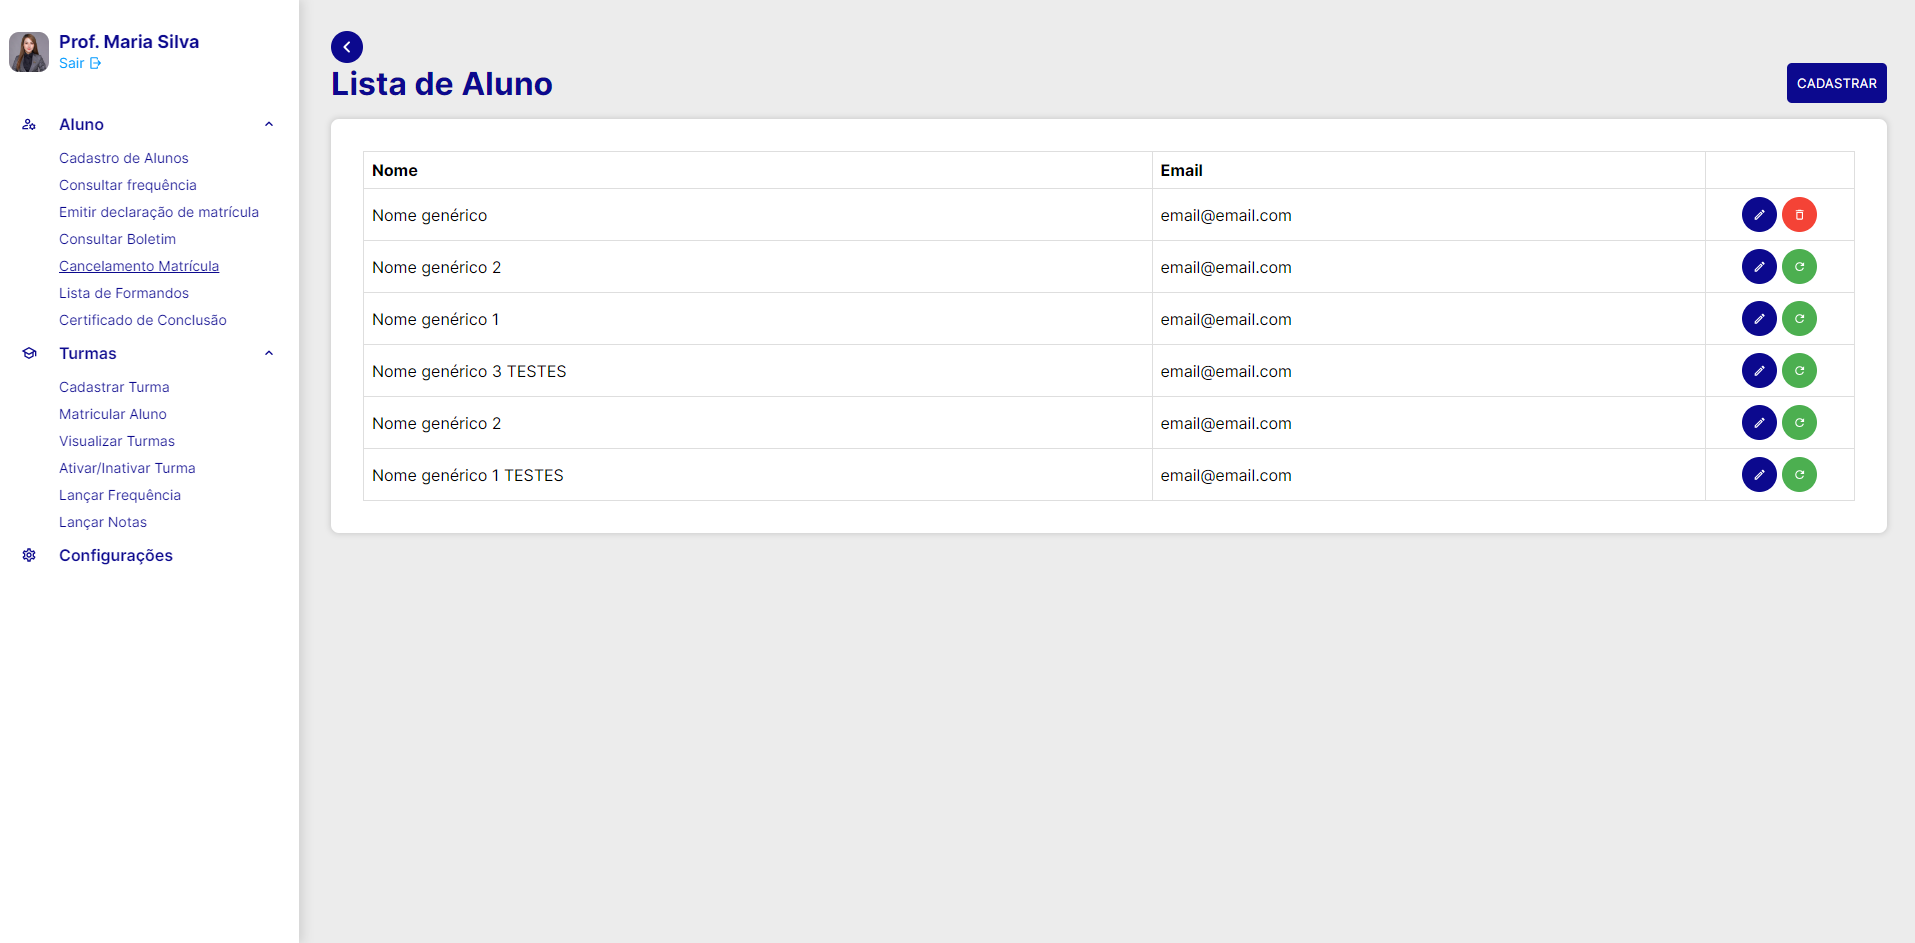
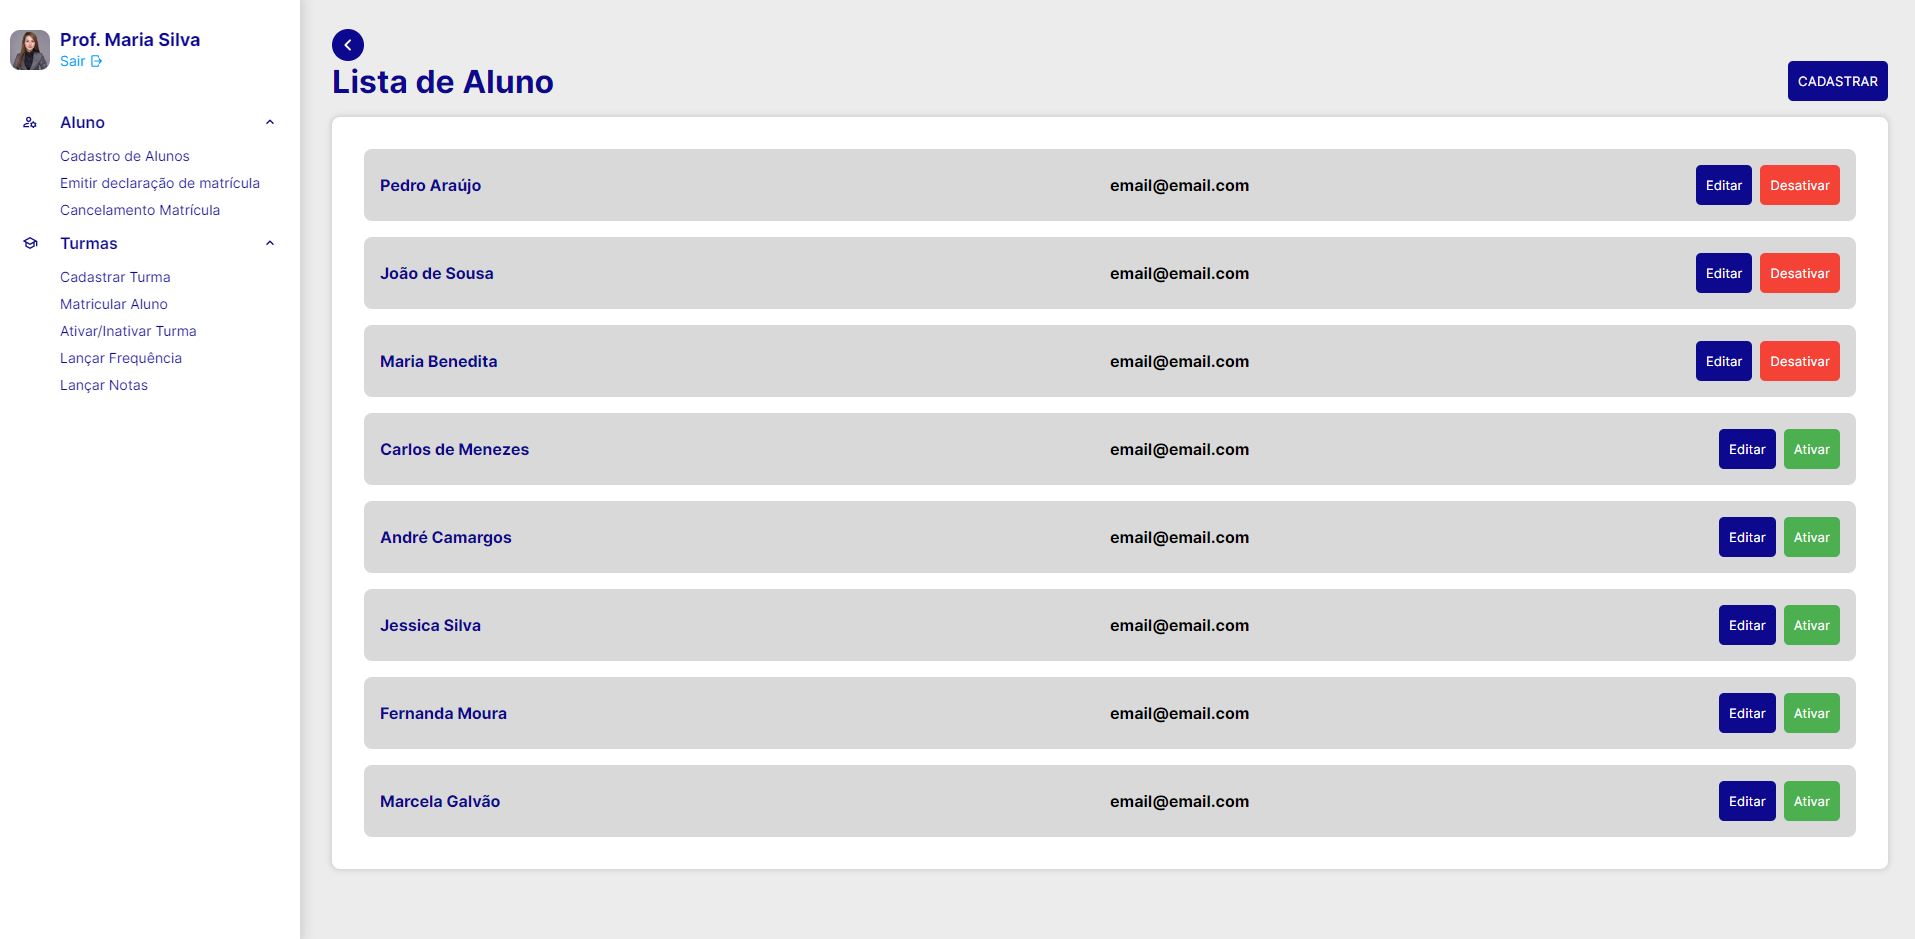
feat: programação de funcionalidades cancelar matrícula

diff --git a/codigo-fonte/src/hooks/useDOMManager.js b/codigo-fonte/src/hooks/useDOMManager.js
@@ -174,7 +174,7 @@ export const useDOMManager = () => {
 
                 actionsNode.classList.add('actions');
                 actionsNode.classList.add('flex');
-                actionsNode.classList.add('justify-center');
+                actionsNode.classList.add('justify-end');
                 actionsNode.classList.add('gap-2');
 
                 li.appendChild(nameNode);
@@ -216,7 +216,7 @@ export const useDOMManager = () => {
 
                 actionsNode.classList.add('actions');
                 actionsNode.classList.add('flex');
-                actionsNode.classList.add('justify-center');
+                actionsNode.classList.add('justify-end');
                 actionsNode.classList.add('gap-2');
 
                 li.appendChild(nameNode);
@@ -247,19 +247,22 @@ export const useDOMManager = () => {
                 buttonEdit.classList.add('btn');
                 buttonEdit.classList.add('btn-primary');
                 buttonEdit.classList.add('edit-button');
-                buttonEdit.innerHTML = '<span class="iconify-inline" data-icon="ic:outline-edit"></span>';
+                buttonEdit.textContent = "Editar";
+                // buttonEdit.innerHTML = '<span class="iconify-inline" data-icon="ic:outline-edit"></span>';
 
                 const buttonDelete = document.createElement('button');
                 buttonDelete.classList.add('btn');
                 buttonDelete.classList.add('btn-danger');
                 buttonDelete.classList.add('delete-button');
-                buttonDelete.innerHTML = '<span class="iconify-inline" data-icon="ic:outline-delete"></span>';
+                buttonDelete.textContent = "Desativar";
+                // buttonDelete.innerHTML = '<span class="iconify-inline" data-icon="ic:outline-delete"></span>';
 
                 const buttonActive = document.createElement('button');
                 buttonActive.classList.add('btn');
                 buttonActive.classList.add('btn-success');
                 buttonActive.classList.add('active-button');
-                buttonActive.innerHTML = '<span class="iconify-inline" data-icon="ic:outline-refresh"></span>';
+                buttonActive.textContent = "Ativar";
+                // buttonActive.innerHTML = '<span class="iconify-inline" data-icon="ic:outline-refresh"></span>';
 
                 actionsNode.appendChild(buttonEdit);
 

diff --git a/documentos/06-Programação de Funcionalidades.md b/documentos/06-Programação de Funcionalidades.md
@@ -567,3 +567,44 @@ RF - 11	CRUD de Notas (Deve ser possível lançar, editar, visualizar e excluir 
 #### Responsável
 
 Kevin Lucas
+
+### Tela Cancelamento Matrícula
+
+![Cancelamento Matrícula](/documentos/img/telas/cancelamento_matricula.png)
+##### *Tela lista de alunos*
+
+
+#### Requisito atendido
+
+- RF-03: Deve ser possível desativar a matrícula de um aluno no sistema
+- RF-07: Usuários autorizados devem conseguir cancelar matrícula de um aluno no sistema
+
+
+#### Artefatos da funcionalidade
+
+- [alunos/cancelar_matricula/index.html](/codigo-fonte/src/pages/aluno/cancelar_matricula/index.html)
+- [alunos/cancelar_matricula/index.css](/codigo-fonte/src/pages/aluno/cancelar_matricula/index.css)
+- [alunos/cancelar_matricula/index.js](/codigo-fonte/src/pages/aluno/cancelar_matricula/index.js)
+
+
+#### Estrutura de Dados
+
+![estrutura de dados](/documentos/img/telas/estrutura_dados_cancelar_matricula.png)
+##### *Estrutura de dados de cancelamento de matrícula*
+
+
+#### Instruções de acesso
+
+1. Para executar o sistema localmente, é necessário a instalação do [Node.js](https://nodejs.org).
+2. Após instalá-lo na sua máquina, execute o comando, na raiz do projeto:
+
+    ```
+    cd codigo-fonte && npm run dev
+    ```
+
+3. Abra um navegador da web e navegue até `http://localhost:8080` para visualizar o projeto em execução.
+4. Após fazer login no sistema, acesse a opção de menu à esquerda "Cancelamento matrícula" para ter acesso a página de cancelamento de matrícula de alunos.
+
+
+#### Responsável
+Marcelly Freitas

diff --git a/documentos/07-Plano de Testes de Software.md b/documentos/07-Plano de Testes de Software.md
@@ -90,9 +90,9 @@ Os testes funcionais a serem realizados na aplicação são descritos a seguir. 
                     <li>Deve ser possível cadastrar somente após o preenchimento de todos os campos obrigatórios.</li>
                     <li>Após o preenchimento do formulário, deve ser possível clicar no botão 'Cadastrar' para finalizar o cadastro do aluno.</li>
                     <li>Após a finalização do cadastro, o usuário deve ser redirecionado para a lista de alunos com a mensagem de sucesso.</li>
-                    <li>Na lista de alunos, deve ser possível clicar no botão 'editar' (ícone de caneta) para realizar alterações no cadastro do aluno.</li>
-                    <li>Na lista de alunos, deve ser possível clicar no botão 'desativar' (ícone de lixeira) para realizar a desativação do aluno.</li>
-                    <li>Na lista de alunos, deve ser possível clicar no botão 'reativar' (ícone de refresh) para realizar a reativação do aluno.</li>
+                    <li>Na lista de alunos, deve ser possível clicar no botão 'editar' para realizar alterações no cadastro do aluno.</li>
+                    <li>Na lista de alunos, deve ser possível clicar no botão 'desativar' para realizar a desativação do aluno.</li>
+                    <li>Na lista de alunos, deve ser possível clicar no botão 'reativar' para realizar a reativação do aluno.</li>
                 </ol> 
             </td>
         </tr>
